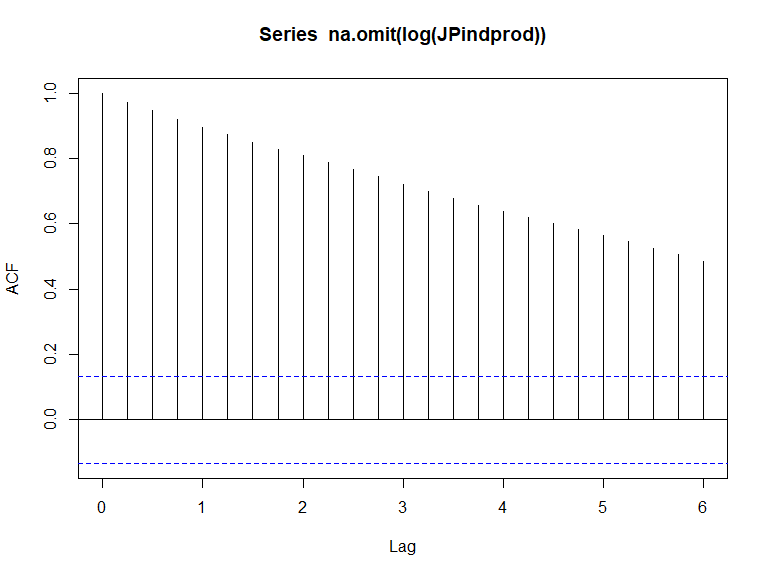
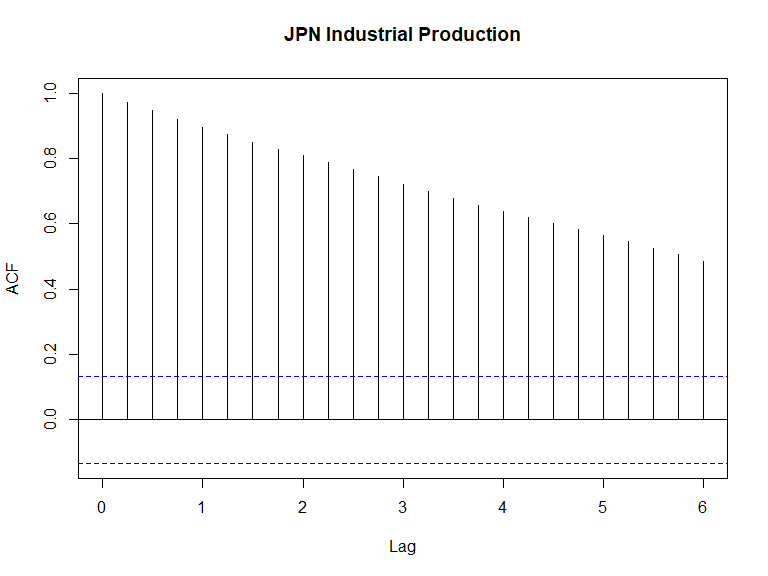
Updated slides

Changed region(s): [[0.3438, 0.0312, 0.7188, 0.0938]]

diff --git a/index.html b/index.html
@@ -639,7 +639,8 @@ EC2208 | Royal Holloway | 2021/22
 <section id="the-autocovariance-function-in-r" class="slide level2">
 <h2>The autocovariance function in R</h2>
 <div class="sourceCode" id="cb4"><pre class="sourceCode r"><code class="sourceCode r"><span id="cb4-1"><a href="#cb4-1" aria-hidden="true" tabindex="-1"></a><span class="co"># ACF of US quarterly GDP</span></span>
-<span id="cb4-2"><a href="#cb4-2" aria-hidden="true" tabindex="-1"></a><span class="fu">acf</span>(<span class="fu">na.omit</span>(<span class="fu">log</span>(GDP)), <span class="at">lag.max =</span> <span class="dv">8</span>, <span class="at">plot =</span> <span class="cn">FALSE</span>)</span></code></pre></div>
+<span id="cb4-2"><a href="#cb4-2" aria-hidden="true" tabindex="-1"></a>acf <span class="ot">&lt;-</span> <span class="fu">acf</span>(<span class="fu">na.omit</span>(<span class="fu">log</span>(GDP)), <span class="at">lag.max =</span> <span class="dv">8</span>, <span class="at">plot =</span> <span class="cn">FALSE</span>)</span>
+<span id="cb4-3"><a href="#cb4-3" aria-hidden="true" tabindex="-1"></a>acf</span></code></pre></div>
 <pre><code>## 
 ## Autocorrelations of series &#39;na.omit(log(GDP))&#39;, by lag
 ## 
@@ -648,14 +649,10 @@ EC2208 | Royal Holloway | 2021/22
 </section>
 <section id="the-autocovariance-function-plot-in-r" class="slide level2">
 <h2>The autocovariance function plot in R</h2>
-<div class="sourceCode" id="cb6"><pre class="sourceCode r"><code class="sourceCode r"><span id="cb6-1"><a href="#cb6-1" aria-hidden="true" tabindex="-1"></a><span class="co"># ACF of US quarterly GDP</span></span>
-<span id="cb6-2"><a href="#cb6-2" aria-hidden="true" tabindex="-1"></a><span class="fu">acf</span>(<span class="fu">na.omit</span>(<span class="fu">log</span>(GDP)), <span class="at">lag.max =</span> <span class="dv">24</span>, <span class="at">plot =</span> <span class="cn">TRUE</span>)</span></code></pre></div>
 <p><img src="index_files/figure-revealjs/unnamed-chunk-6-1.png" width="70%" /></p>
 </section>
 <section id="the-autocovariance-function-plot-in-r-1" class="slide level2">
 <h2>The autocovariance function plot in R</h2>
-<div class="sourceCode" id="cb7"><pre class="sourceCode r"><code class="sourceCode r"><span id="cb7-1"><a href="#cb7-1" aria-hidden="true" tabindex="-1"></a><span class="co"># ACF of US quarterly GDP</span></span>
-<span id="cb7-2"><a href="#cb7-2" aria-hidden="true" tabindex="-1"></a><span class="fu">acf</span>(<span class="fu">na.omit</span>(GDPGrowth), <span class="at">lag.max =</span> <span class="dv">24</span>, <span class="at">plot =</span> <span class="cn">TRUE</span>)</span></code></pre></div>
 <p><img src="index_files/figure-revealjs/unnamed-chunk-7-1.png" width="70%" /></p>
 </section></section>
 <section>
@@ -669,8 +666,6 @@ EC2208 | Royal Holloway | 2021/22
 </section>
 <section id="us-unemployment-rate-acf" class="slide level2">
 <h2>US unemployment rate ACF</h2>
-<div class="sourceCode" id="cb8"><pre class="sourceCode r"><code class="sourceCode r"><span id="cb8-1"><a href="#cb8-1" aria-hidden="true" tabindex="-1"></a><span class="co"># ACF of US quarterly unemployment rate</span></span>
-<span id="cb8-2"><a href="#cb8-2" aria-hidden="true" tabindex="-1"></a><span class="fu">acf</span>(<span class="fu">na.omit</span>(usunemp), <span class="at">lag.max =</span> <span class="dv">24</span>, <span class="at">plot =</span> <span class="cn">TRUE</span>)</span></code></pre></div>
 <p><img src="index_files/figure-revealjs/unnamed-chunk-9-1.png" width="70%" /></p>
 </section>
 <section id="usdgbp-exchange-rate" class="slide level2">
@@ -679,18 +674,14 @@ EC2208 | Royal Holloway | 2021/22
 </section>
 <section id="usdgbp-exchange-rate-acf" class="slide level2">
 <h2>USD/GBP exchange rate ACF</h2>
-<div class="sourceCode" id="cb9"><pre class="sourceCode r"><code class="sourceCode r"><span id="cb9-1"><a href="#cb9-1" aria-hidden="true" tabindex="-1"></a><span class="co"># ACF of USD/GBP exchange rate series</span></span>
-<span id="cb9-2"><a href="#cb9-2" aria-hidden="true" tabindex="-1"></a><span class="fu">acf</span>(<span class="fu">na.omit</span>(dollarpoundFX), <span class="at">lag.max =</span> <span class="dv">24</span>, <span class="at">plot =</span> <span class="cn">TRUE</span>)</span></code></pre></div>
 <p><img src="index_files/figure-revealjs/unnamed-chunk-11-1.png" width="70%" /></p>
 </section>
 <section id="japanese-industrial-production" class="slide level2">
 <h2>Japanese Industrial Production</h2>
 <p><img src="index_files/figure-revealjs/unnamed-chunk-12-1.png" width="70%" /></p>
 </section>
-<section id="usdgbp-exchange-rate-acf-1" class="slide level2">
-<h2>USD/GBP exchange rate ACF</h2>
-<div class="sourceCode" id="cb10"><pre class="sourceCode r"><code class="sourceCode r"><span id="cb10-1"><a href="#cb10-1" aria-hidden="true" tabindex="-1"></a><span class="co"># ACF of Japanese Industrial Production index series</span></span>
-<span id="cb10-2"><a href="#cb10-2" aria-hidden="true" tabindex="-1"></a><span class="fu">acf</span>(<span class="fu">na.omit</span>(<span class="fu">log</span>(JPindprod)), <span class="at">lag.max =</span> <span class="dv">24</span>, <span class="at">plot =</span> <span class="cn">TRUE</span>)</span></code></pre></div>
+<section id="japanese-industrial-production-index-acf" class="slide level2">
+<h2>Japanese Industrial Production Index ACF</h2>
 <p><img src="index_files/figure-revealjs/unnamed-chunk-13-1.png" width="70%" /></p>
 </section>
 <section id="ny-stock-exchange-composite-index-daily-changes" class="slide level2">
@@ -699,8 +690,6 @@ EC2208 | Royal Holloway | 2021/22
 </section>
 <section id="ny-stock-exchange-composite-index-daily-changes-acf" class="slide level2">
 <h2>NY Stock Exchange Composite Index (daily changes) ACF</h2>
-<div class="sourceCode" id="cb11"><pre class="sourceCode r"><code class="sourceCode r"><span id="cb11-1"><a href="#cb11-1" aria-hidden="true" tabindex="-1"></a><span class="co"># ACF of New York Stock Exchange Composite Index (daily changes) series</span></span>
-<span id="cb11-2"><a href="#cb11-2" aria-hidden="true" tabindex="-1"></a><span class="fu">acf</span>(<span class="fu">na.omit</span>(NYSESW), <span class="at">lag.max =</span> <span class="dv">24</span>, <span class="at">plot =</span> <span class="cn">TRUE</span>)</span></code></pre></div>
 <p><img src="index_files/figure-revealjs/unnamed-chunk-15-1.png" width="70%" /></p>
 </section></section>
 <section>
